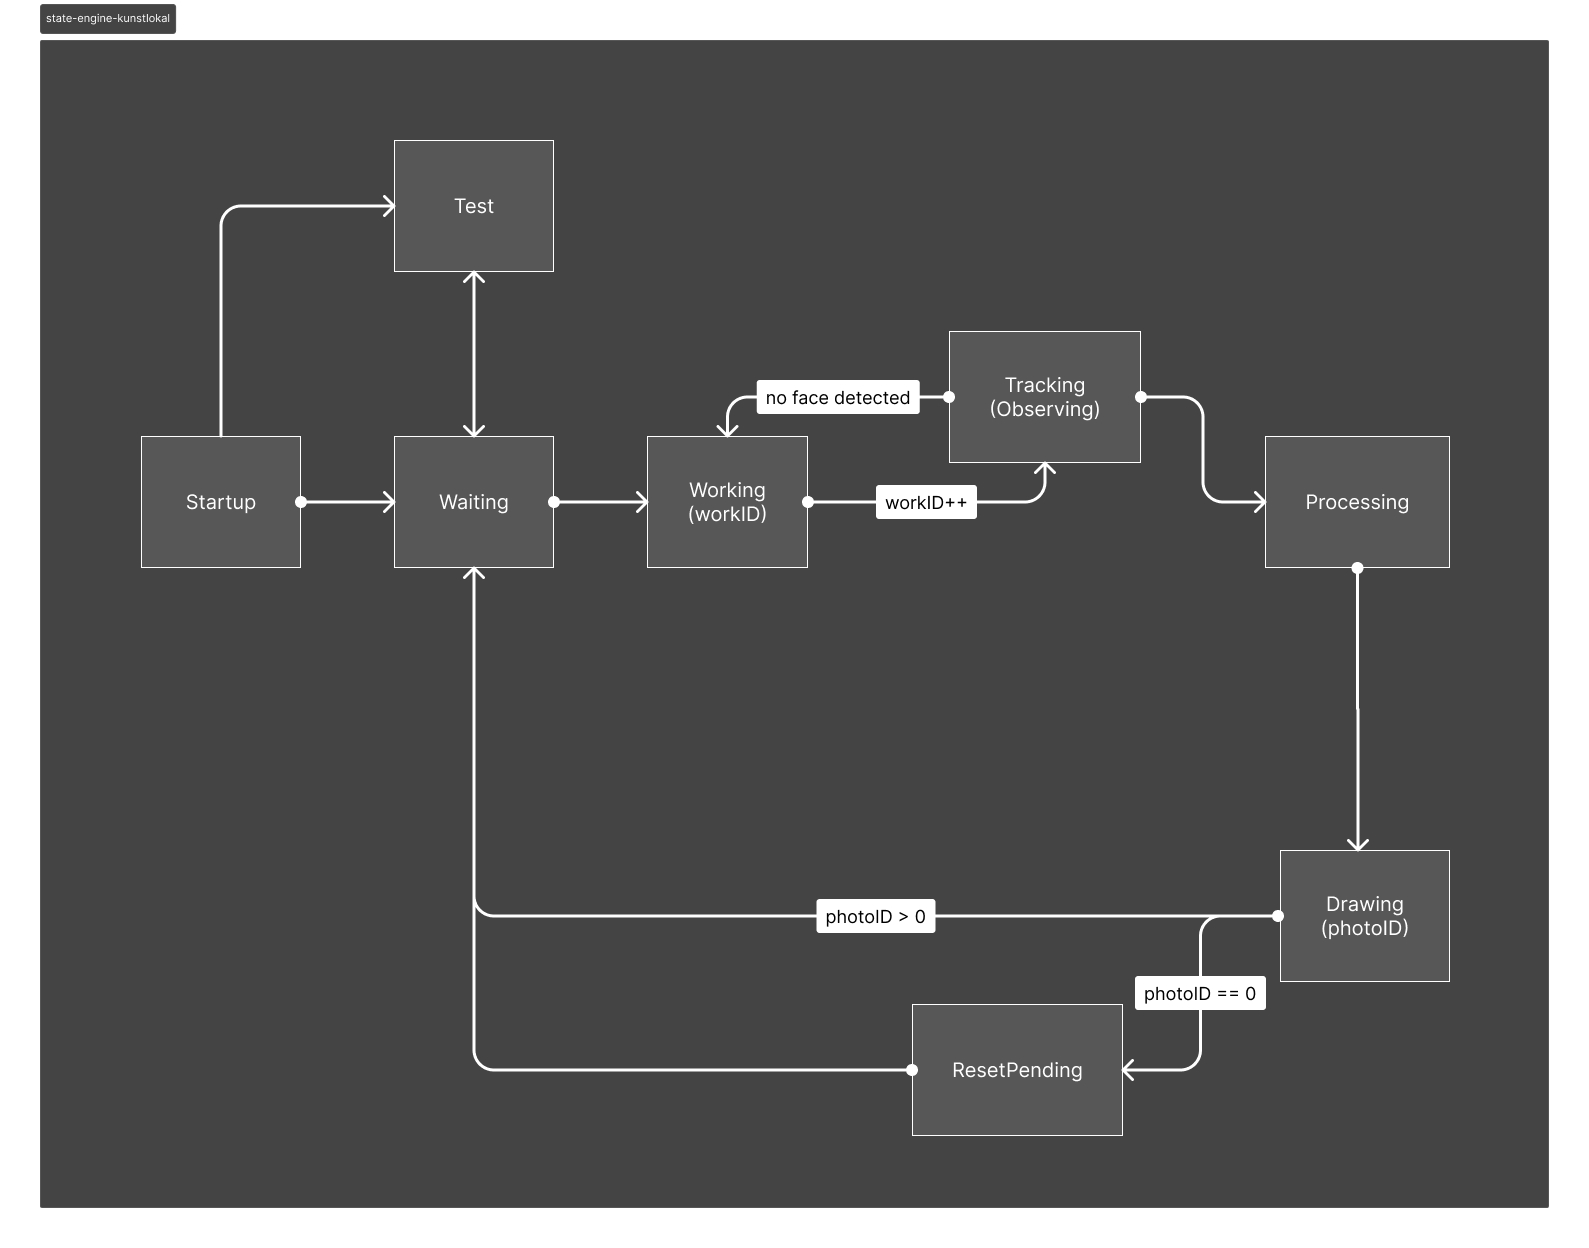
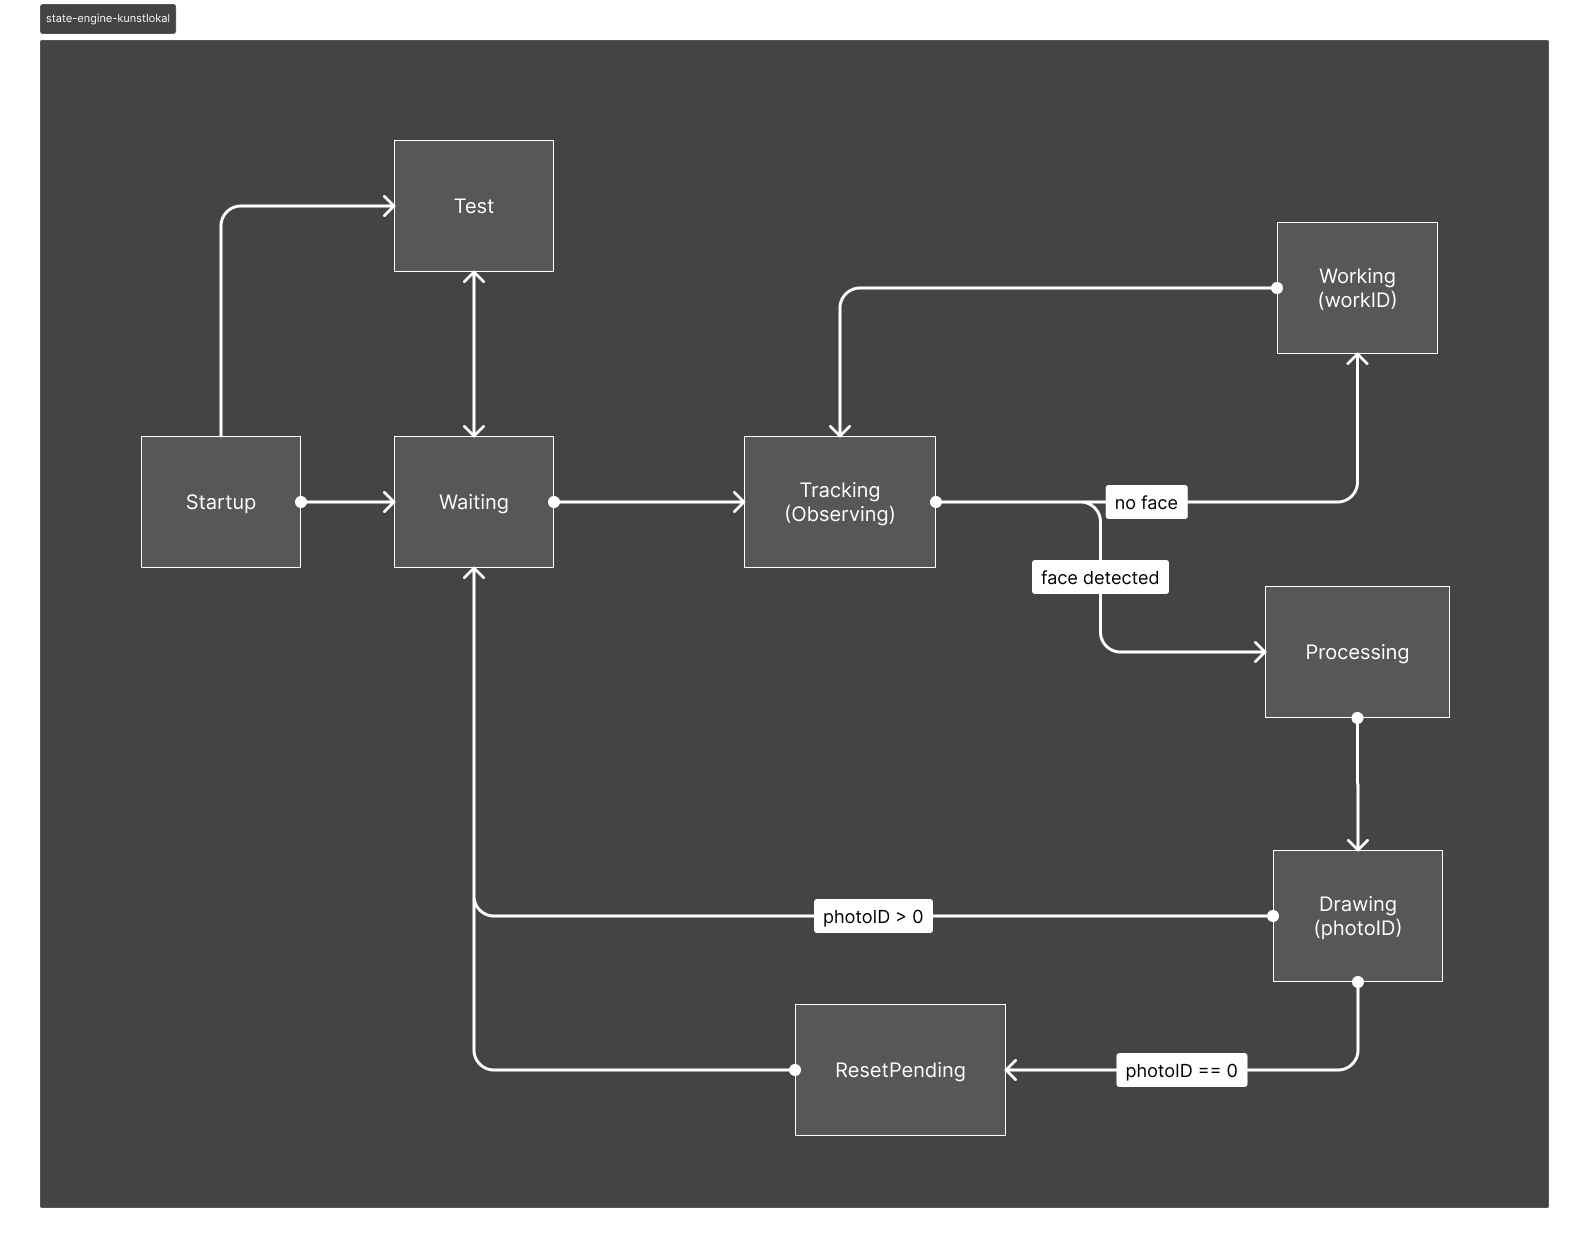
Updated state engine, track first, work later

diff --git a/photobooth/photobooth.py b/photobooth/photobooth.py
@@ -28,21 +28,7 @@ class PhotoBooth:
     
     def process_waiting(self):
         # Logic for "Waiting" state
-        time.sleep(4)
-        self.state_engine.change_state("Working")
-        pass
-    
-    def process_working(self):
-        # Logic to retrieve work pattern and create output svg
-        time.sleep(2)
-        parent_dir = os.path.dirname(os.path.dirname(os.path.abspath(__file__)))
-        self.state_engine.currentWorkPath = os.path.join(parent_dir, f"assets/work/work-0.svg")
-        startX, startY = self.state_engine.get_image_params_by_id(self.state_engine.photoID-1)
-        self.state_engine.currentSVGPath = self.image_parser.create_output_svg(self.state_engine.currentWorkPath, "work-", 1.0, startX, startY, self.state_engine.photoID)
-        
-        print(f"Converted Work pattern to SVG: {self.state_engine.currentSVGPath}")
-        self.plotter.plot_image(self.state_engine.currentSVGPath)
-        
+        time.sleep(1)
         self.state_engine.change_state("Tracking")
         pass
     
@@ -62,6 +48,19 @@ class PhotoBooth:
                 self.state_engine.change_state("Working")
         else:
             print("Failed to snap photo.")
+        pass
+    
+    def process_working(self):
+        # Logic to retrieve work pattern and create output svg
+        parent_dir = os.path.dirname(os.path.dirname(os.path.abspath(__file__)))
+        self.state_engine.currentWorkPath = os.path.join(parent_dir, f"assets/work/work-0.svg")
+        startX, startY = self.state_engine.get_image_params_by_id(self.state_engine.photoID-1)
+        self.state_engine.currentSVGPath = self.image_parser.create_output_svg(self.state_engine.currentWorkPath, "work-", 1.0, startX, startY, self.state_engine.photoID)
+        
+        print(f"Converted Work pattern to SVG: {self.state_engine.currentSVGPath}")
+        self.plotter.plot_image(self.state_engine.currentSVGPath)
+        
+        self.state_engine.change_state("Tracking")
         pass
 
     def process_processing(self):

diff --git a/photobooth/stateengine.py b/photobooth/stateengine.py
@@ -16,9 +16,9 @@ class StateEngine:
         self.photoID = self.totalImages
         self.transitions = {
             "Startup": ["Waiting", "ResetPending", "Test"],
-            "Waiting": ["Working"],
+            "Waiting": ["Tracking"],
+            "Tracking": ["Working", "Processing"],
             "Working": ["Tracking"],
-            "Tracking": ["Processing", "Working"],
             "Processing": ["Drawing"],
             "Drawing": ["Waiting", "ResetPending"],
             "ResetPending": ["Waiting"], 
@@ -128,7 +128,7 @@ class StateEngine:
         # Handler for each state
         if self.state == "Waiting":
             self.reset_work_id()
-            self.change_state("Working")
+            self.change_state("Tracking")
         elif self.state == "Working":
             self.change_state("Tracking")
         elif self.state == "ResetPending":
